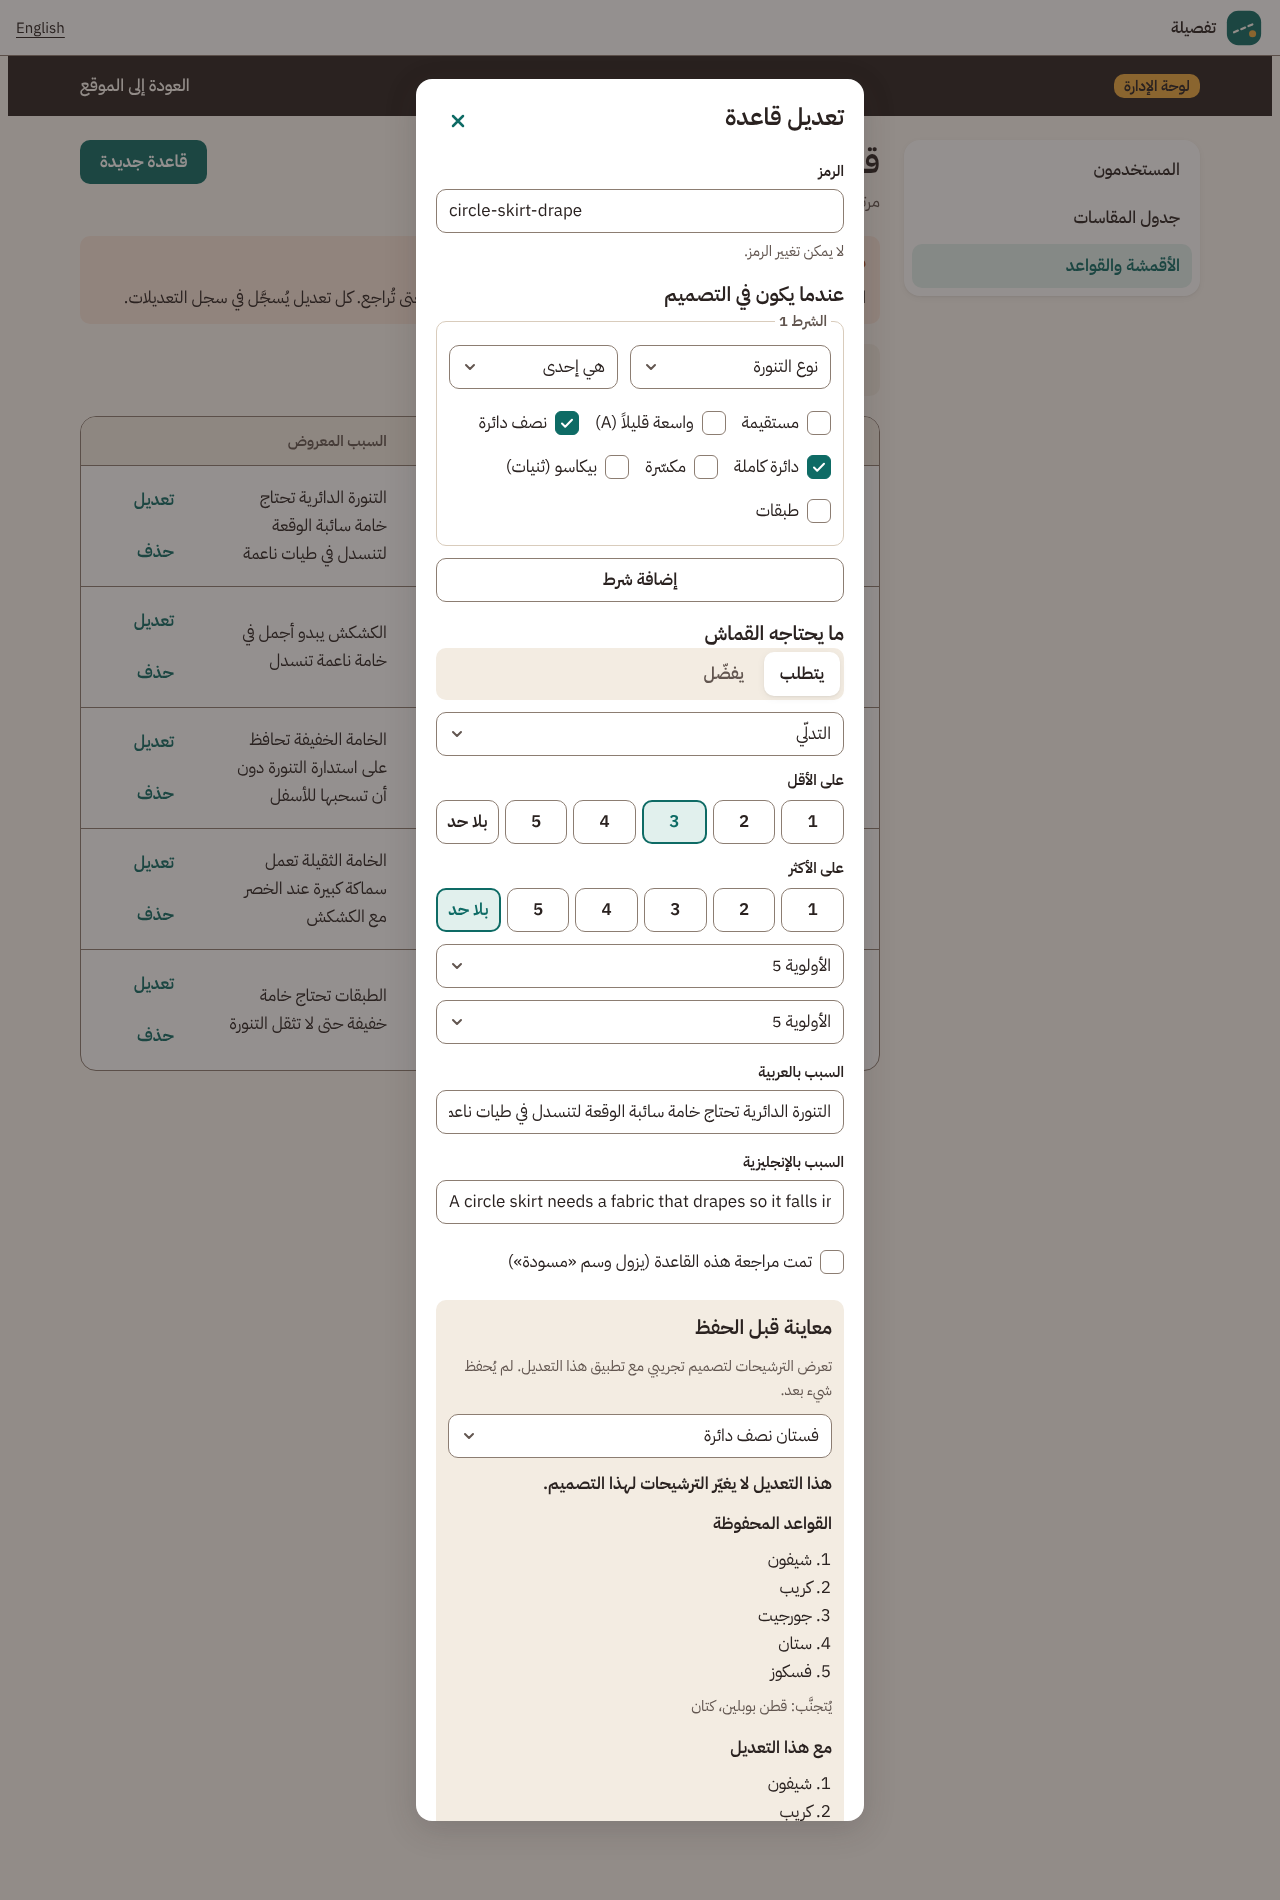
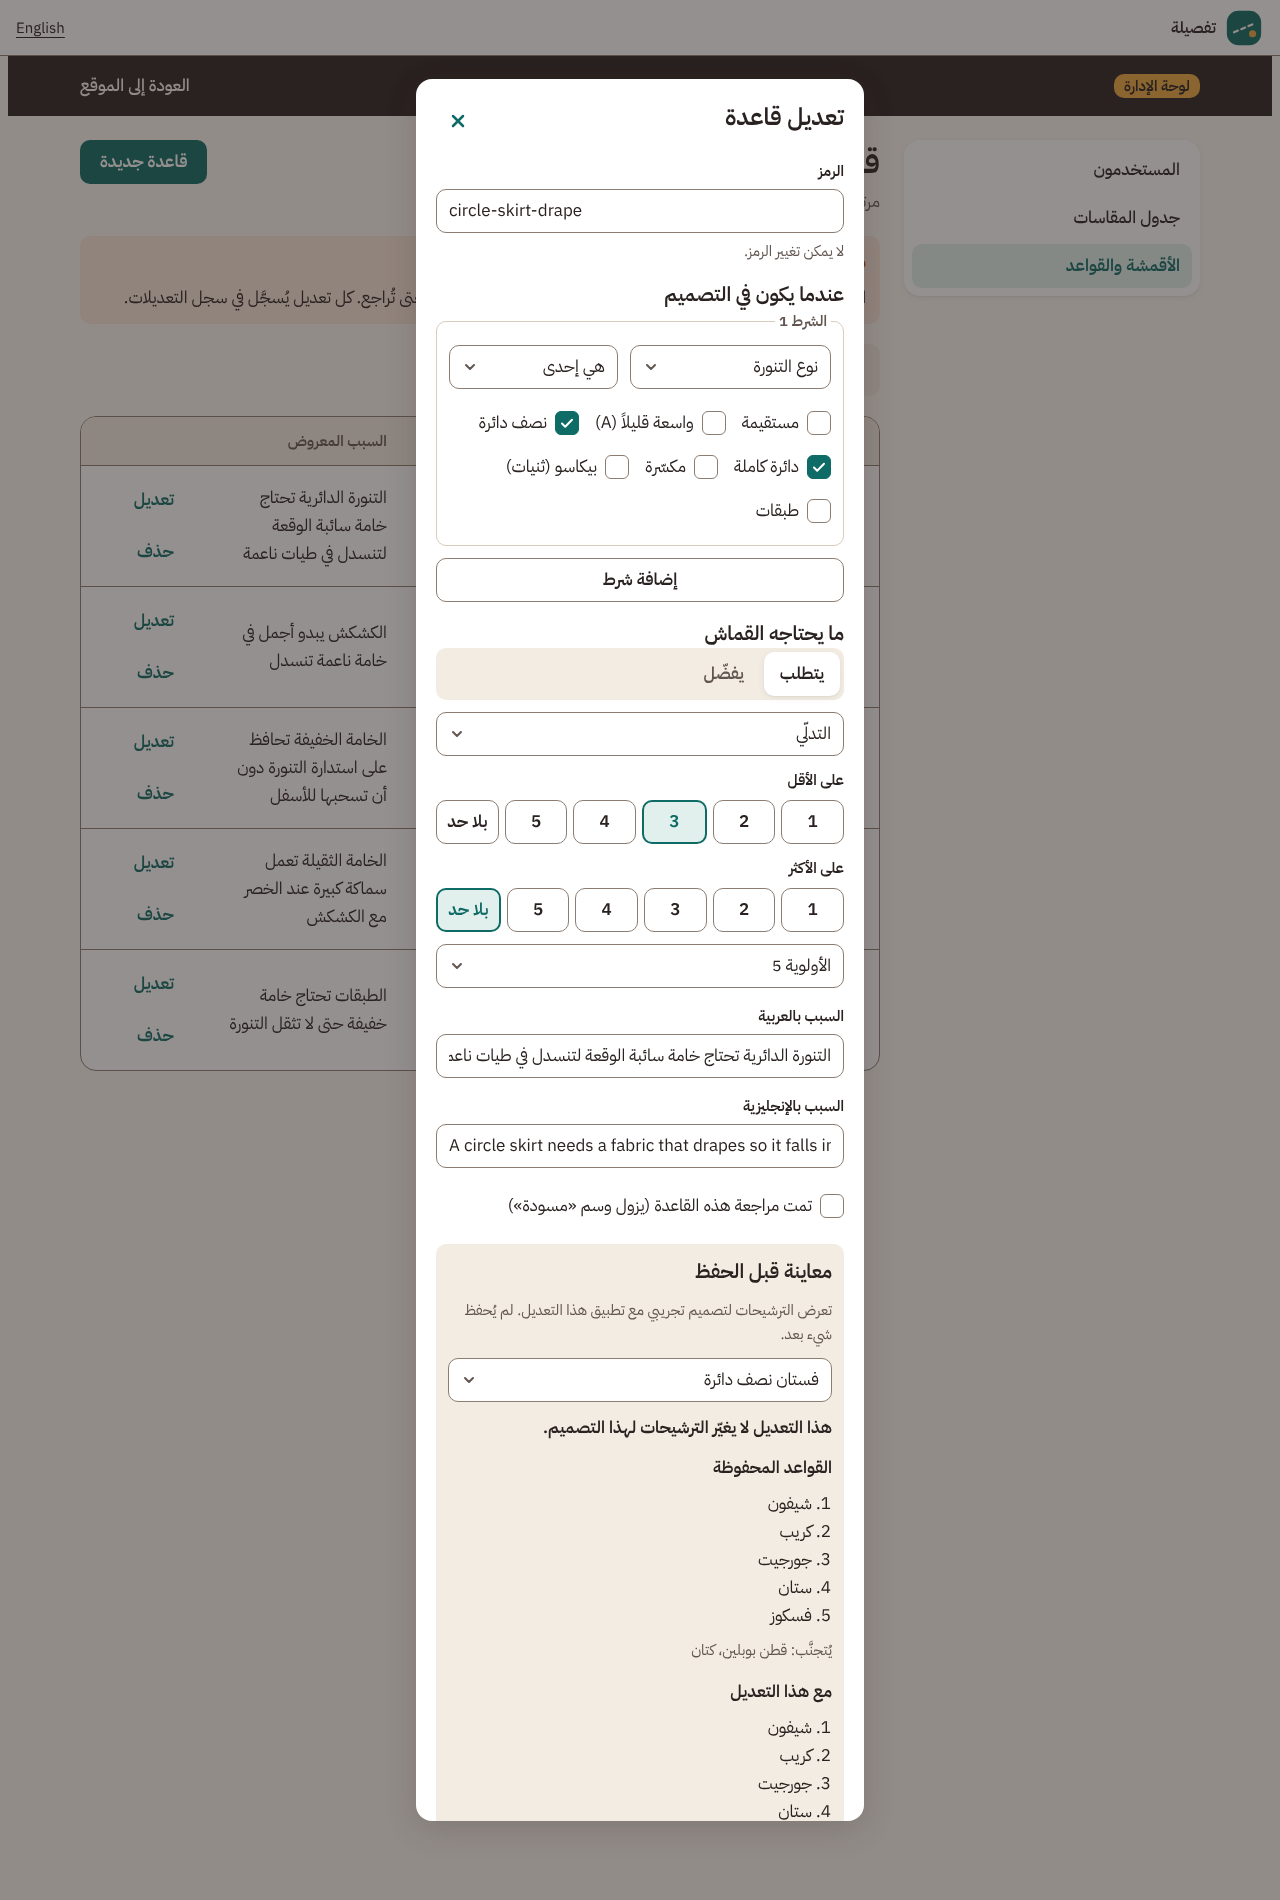
fix(web): one priority select in the rule dialog; e2e picks Required (#320)
Claude-Session: https://claude.ai/code/session_01Wq6y58caC9jEWD4HxW7p5f

Changed region(s): [[0.3438, 0.5279, 0.6562, 0.9626]]

diff --git a/apps/web/src/features/admin-fabrics/components/RuleBoundFields.tsx b/apps/web/src/features/admin-fabrics/components/RuleBoundFields.tsx
@@ -60,19 +60,6 @@ export function RuleBoundFields({ form, errorOf, dir }: Readonly<RuleBoundFields
           />
         )}
       />
-      <Controller
-        control={control}
-        name="priority"
-        render={({ field }) => (
-          <Select
-            dir={dir}
-            aria-label={t("priority")}
-            value={String(field.value)}
-            onValueChange={(v) => field.onChange(Number(v))}
-            options={PRIORITIES.map((p) => ({ value: String(p), label: t("priorityOption", { n: p }) }))}
-          />
-        )}
-      />
     </>
   );
 }

diff --git a/apps/web/e2e/admin-fabrics.spec.ts b/apps/web/e2e/admin-fabrics.spec.ts
@@ -100,6 +100,7 @@ test.describe("admin fabrics and rules", () => {
     await dialog.getByRole("checkbox", { name: t.designPicker.options.skirt_type["circle-half"] }).click();
     await dialog.getByLabel(form.reasonAr, { exact: true }).fill("س");
     await dialog.getByLabel(form.reasonEn, { exact: true }).fill("r");
+    await dialog.getByRole("button", { name: form.must, exact: true }).click();
     await dialog.getByRole("radio", { name: form.noLimit }).first().click();
     await dialog
       .getByRole("radiogroup", { name: form.max })

diff --git a/apps/web/src/features/admin-fabrics/components/components.test.tsx b/apps/web/src/features/admin-fabrics/components/components.test.tsx
@@ -138,6 +138,6 @@ describe("RuleConditions and RuleEffectFields", () => {
     expect(html).toContain("At least");
     expect(html).toContain("At most");
     expect(html.match(/No limit/g)).toHaveLength(2);
-    expect(html).toContain("Priority");
+    expect(html.match(/Priority 3/g)).toHaveLength(1);
   });
 });
